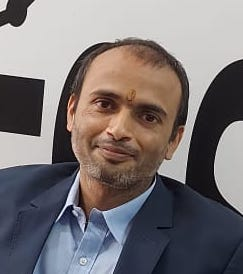
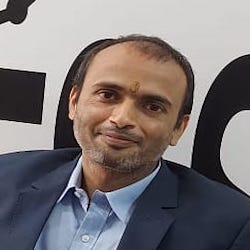
team modified

diff --git a/index.html b/index.html
@@ -39,7 +39,7 @@
 
       <h2 class="logo me-auto">
         <div style="width: auto; display: flex; flex-direction: row; align-items: center;">
-          <img alt="logo" src="assets/img/logo.png" style="width: 6rem; height: 6rem;" />
+          <img alt="logo" src="assets/img/inverted.png" style="width: 6rem; height: 6rem;" />
           <div style="margin-left: 10px;">
             <a href="index.html">K. C. SEKHAR AND ASSOCIATES</a><br />
             <span style="color: #ffffff; text-align: center; padding-left: 45px;">Company Secretaries</span>
@@ -679,7 +679,7 @@
 
           <div class="col-lg-6">
             <div class="member d-flex align-items-start" data-aos="zoom-in" data-aos-delay="100">
-              <div class="pic"><img src="assets/img/team/team2.jpg" class="img-fluid" alt=""></div>
+              <div class="pic"><img src="assets/img/team/team2.jpg" style="width: 180px;height: 180px;" class="img-fluid" alt=""></div>
               <div class="member-info">
                 <h4>K. Chandra Sekhar – Founder</h4>
                 <!-- <span>Founder of the K.C. Sekhar and Associates, Company Secretaries firm.</span> -->
@@ -695,11 +695,11 @@
 
           <div class="col-lg-6 mt-4 mt-lg-0">
             <div class="member d-flex align-items-start" data-aos="zoom-in" data-aos-delay="200">
-              <div class="pic"><img src="assets/img/team/team3.jpeg" class="img-fluid" alt=""></div>
+              <div class="pic"><img src="assets/img/team/team3.jpeg" style="width: 180px;height: 180px;" class="img-fluid" alt=""></div>
               <div class="member-info">
                 <h4>Prashanth – Chartered Accountant</h4>
                 <!-- <span>Product Manager</span> -->
-                <p>Statutory Auditor of Private Limited Companies and Public Limited Companies and also associated as joint statutory auditor with Big 4 firms.</p>
+                <p>Statutory Auditor of Private Limited Companies and Public Limited Companies.</p>
                 <div class="social">
                   <a href="https://twitter.com/chandra04835233"><i class="ri-twitter-fill"></i></a>
                   <a href="https://www.facebook.com/profile.php?id=100002841639027"><i class="ri-facebook-fill"></i></a>
@@ -711,7 +711,7 @@
 
           <div class="col-lg-6 mt-4">
             <div class="member d-flex align-items-start" data-aos="zoom-in" data-aos-delay="300">
-              <div class="pic"><img src="assets/img/team/team1.jpeg" class="img-fluid" alt=""></div>
+              <div class="pic"><img src="assets/img/team/team1.jpeg" style="width: 180px;height: 180px;" class="img-fluid" alt=""></div>
               <div class="member-info">
                 <h4>Rajendra Krishna Rekapu – Advocate</h4>
                 <!-- <span>CTO</span> -->
@@ -727,7 +727,7 @@
 
           <div class="col-lg-6 mt-4">
             <div class="member d-flex align-items-start" data-aos="zoom-in" data-aos-delay="400">
-              <div class="pic"><img src="assets/img/team/team2.jpg" class="img-fluid" alt=""></div>
+              <div class="pic"><img src="assets/img/team/team4.png" style="width: 180px;height: 180px;" class="img-fluid" alt=""></div>
               <div class="member-info">
                 <h4>Ms. Pratima Bhat -  Assistant Manager</h4>
                 <!-- <span>Accountant</span> -->
